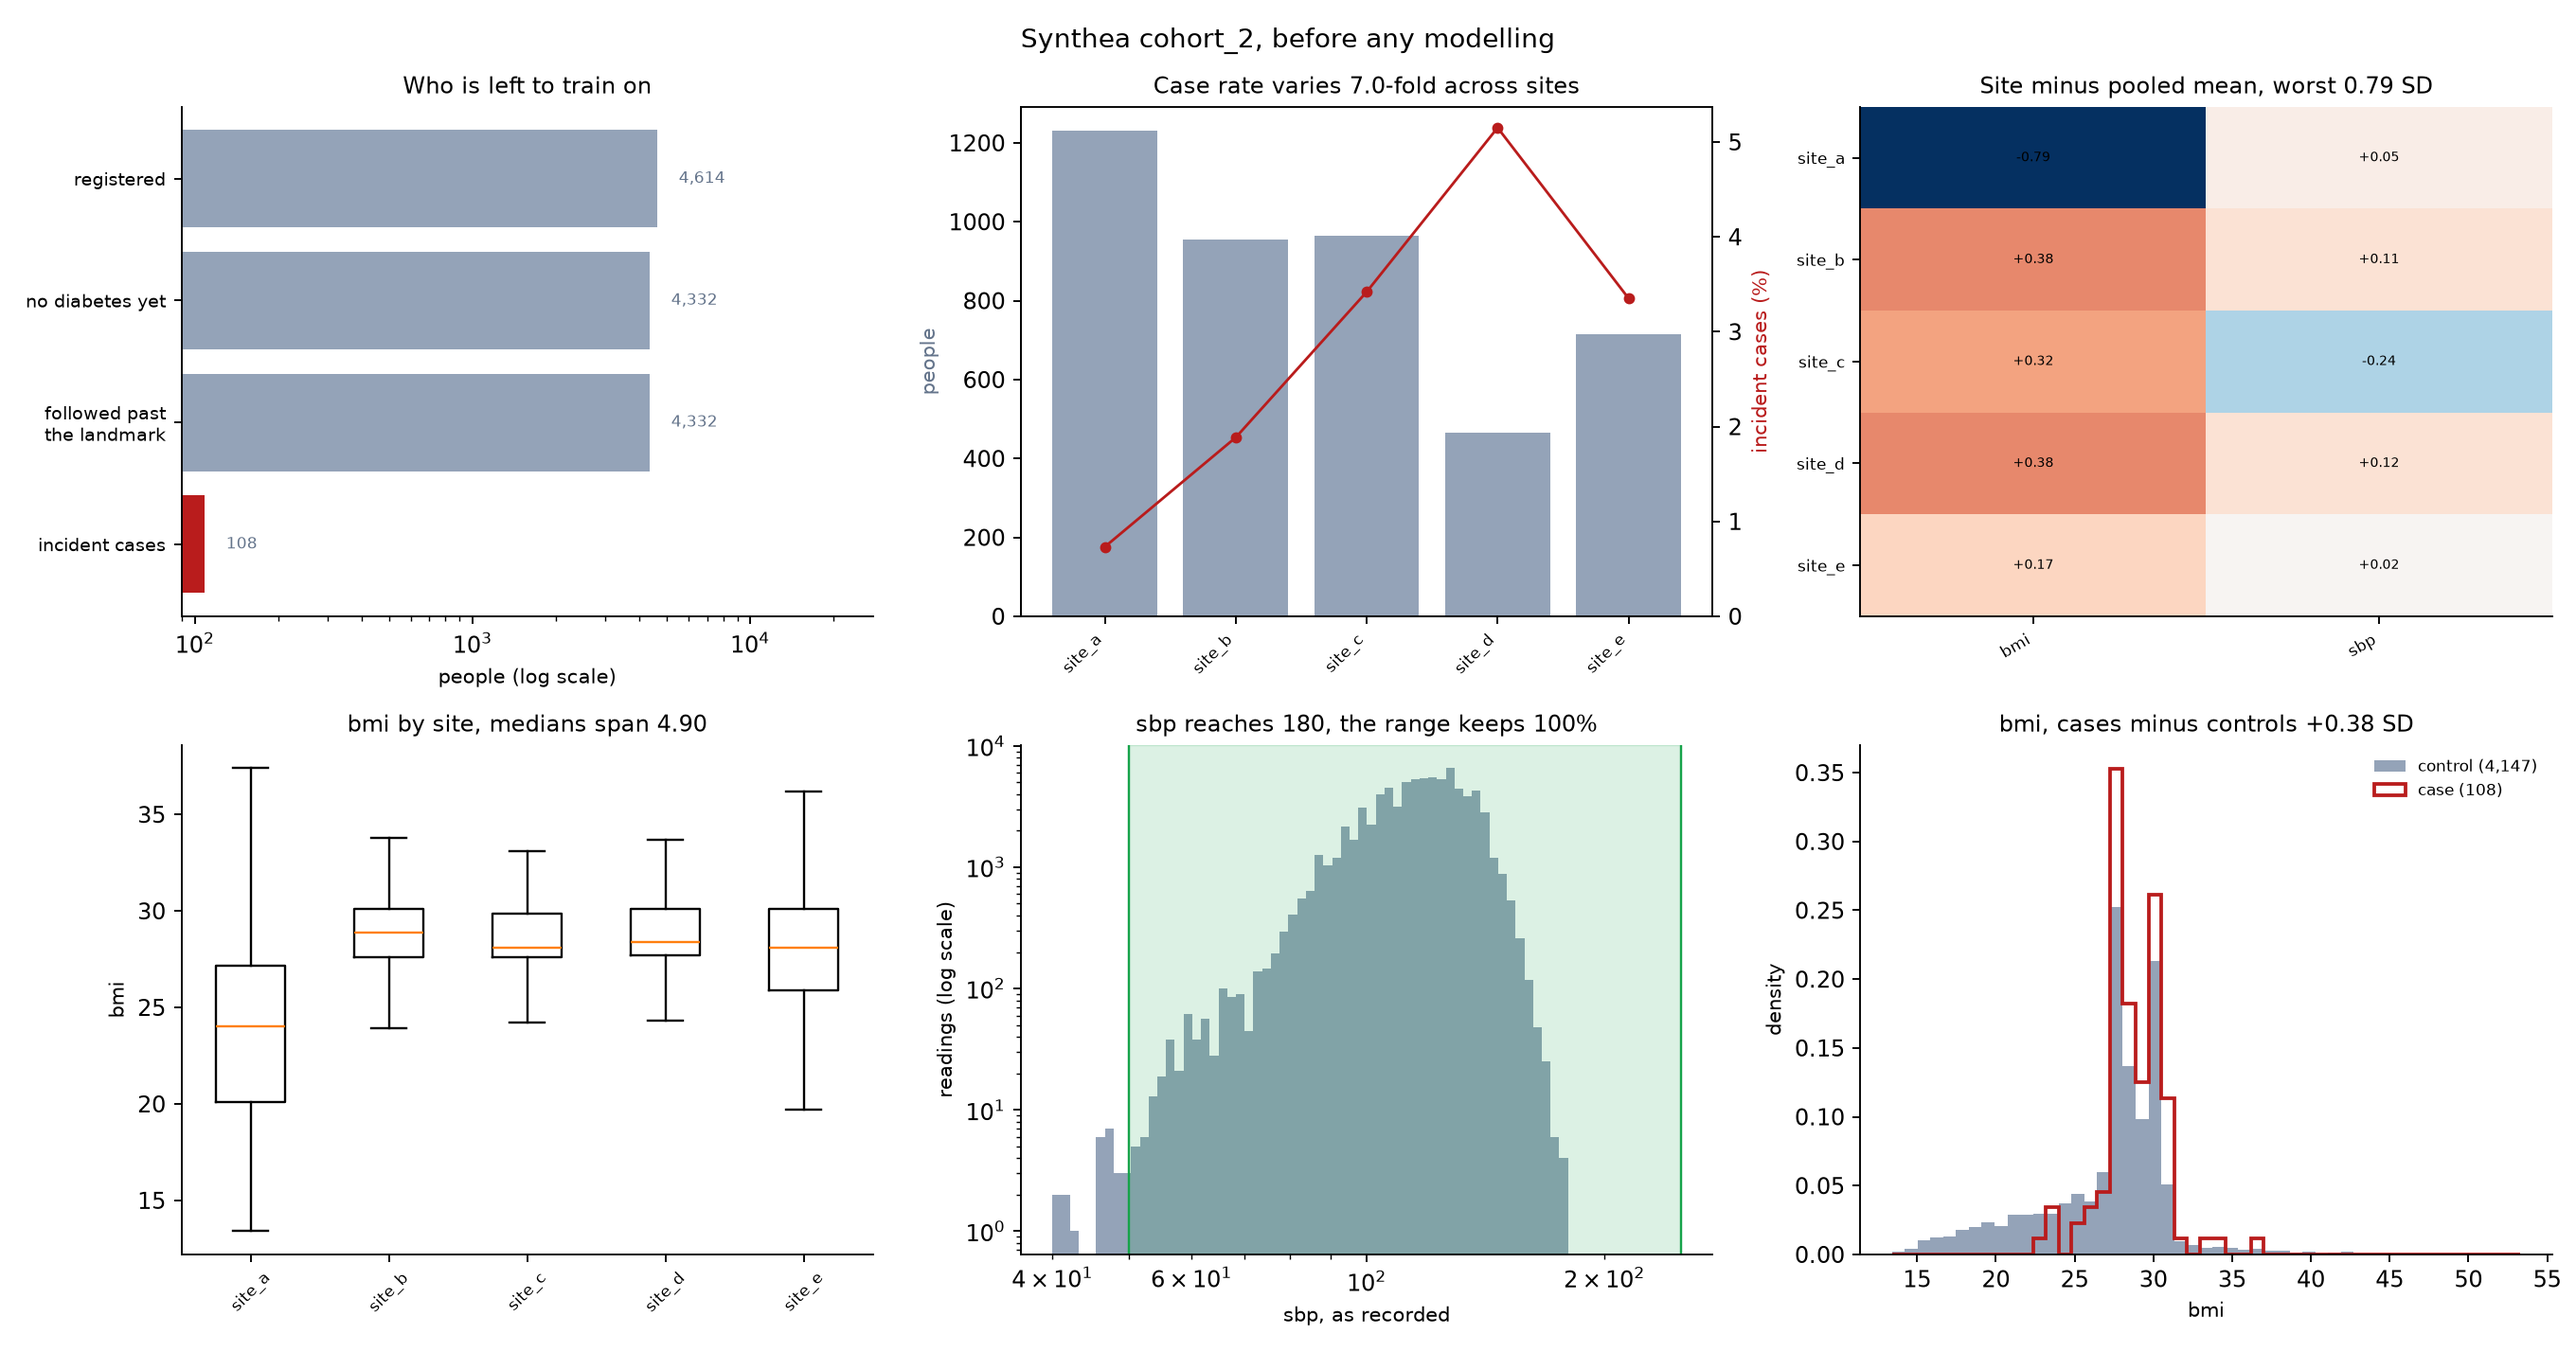
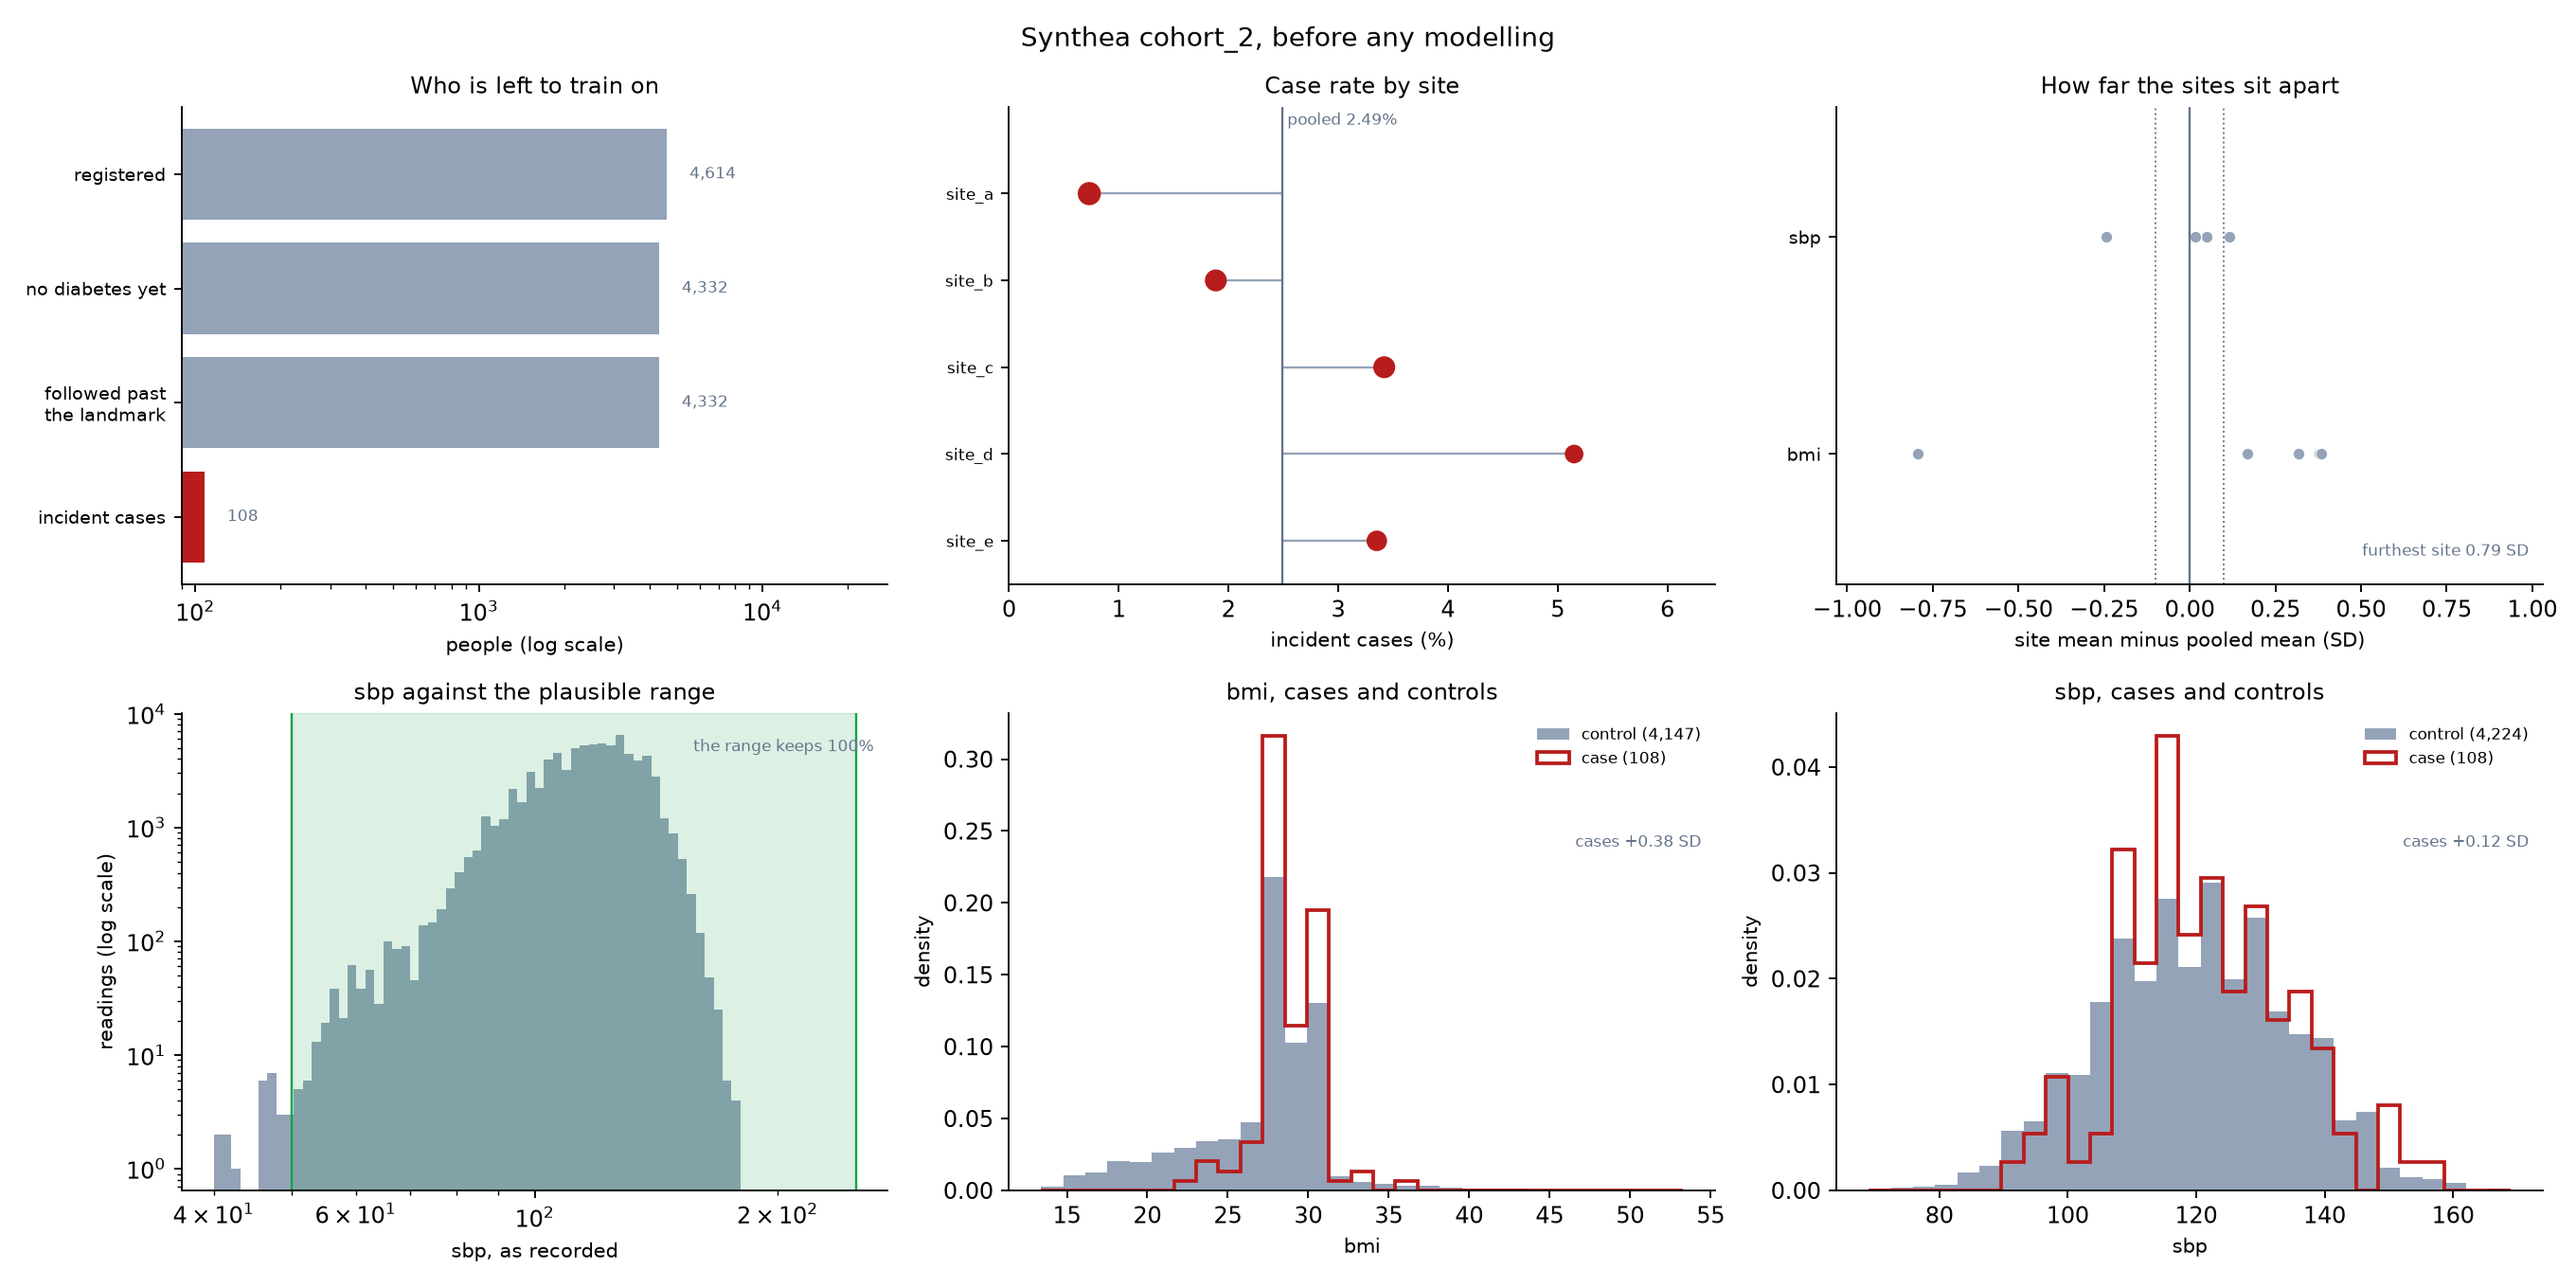
Replace the site bars and the heatmap with dot plots
Three panels all saying the sites are identical made the point three times and
none of them well. The bar chart and the heatmap are gone. Case rate is now a
lollipop against the pooled rate, and site divergence is a dot per site per
feature against a dotted band at 0.1 SD, so sites piling on zero reads as a
deliberate statement rather than a flat colour block.

Numbers move out of titles into the panels. Titles say what is plotted.

diff --git a/examples/ukb_diabetes/explore.py b/examples/ukb_diabetes/explore.py
@@ -134,65 +134,54 @@ def funnel(axis: plt.Axes, stages: dict[str, int]) -> None:
     axis.set_title("Who is left to train on", fontsize=10)
 
 
-def imbalance(axis: plt.Axes, edata: EHRData) -> None:
-    """Show how unevenly the people and the cases are spread over the sites.
+def case_rate(axis: plt.Axes, edata: EHRData) -> None:
+    """Plot each site's case rate against the pooled rate.
 
     Args:
         axis: Axes to draw on.
         edata: The stacked cohort.
     """
     grouped = edata.obs.groupby("site", observed=True)["label"]
-    sizes, rates = grouped.size(), grouped.mean() * 100
-    axis.bar(range(len(sizes)), sizes, color=SITE)
-    axis.set_ylabel("people", color=MUTED, fontsize=9)
-    axis.set_xticks(range(len(sizes)))
-    axis.set_xticklabels([name.replace("centre_", "") for name in sizes.index], rotation=45, ha="right", fontsize=7)
-    twin = axis.twinx()
-    twin.plot(range(len(rates)), rates, "o-", color=CASE, markersize=4, linewidth=1.2)
-    twin.set_ylabel("incident cases (%)", color=CASE, fontsize=9)
-    twin.set_ylim(bottom=0)
-    spread = rates.max() / max(rates.min(), 1e-9)
-    axis.set_title(f"Case rate varies {spread:.1f}-fold across sites", fontsize=10)
+    rates, sizes = grouped.mean() * 100, grouped.size()
+    pooled = float(edata.obs["label"].mean()) * 100
+    positions = np.arange(len(rates))
+    axis.hlines(positions, pooled, rates, color=SITE, linewidth=1)
+    axis.scatter(rates, positions, s=np.sqrt(sizes) * 2.5, color=CASE, zorder=3)
+    axis.axvline(pooled, color=MUTED, linewidth=1)
+    axis.text(pooled, -0.75, f" pooled {pooled:.2f}%", fontsize=7, color=MUTED, va="bottom")
+    axis.set_yticks(positions)
+    axis.set_yticklabels([name.replace("centre_", "") for name in rates.index], fontsize=7)
+    axis.set_ylim(len(rates) - 0.5, -1.0)
+    axis.set_xlabel("incident cases (%)", fontsize=9)
+    axis.set_xlim(0, max(rates.max() * 1.25, pooled * 2))
+    axis.set_title("Case rate by site", fontsize=10)
 
 
-def by_site(axis: plt.Axes, edata: EHRData, feature: str) -> None:
-    """Compare one feature's distribution between sites.
-
-    Args:
-        axis: Axes to draw on.
-        edata: The stacked cohort.
-        feature: Feature to compare.
-    """
-    values = edata[:, feature].X.ravel()
-    sites = edata.obs["site"].cat.categories
-    axis.boxplot(
-        [values[(edata.obs["site"] == site).to_numpy() & ~np.isnan(values)] for site in sites],
-        tick_labels=[site.replace("centre_", "") for site in sites],
-        showfliers=False,
-    )
-    axis.set_ylabel(feature, fontsize=9)
-    axis.tick_params(axis="x", rotation=45, labelsize=7)
-    medians = [np.nanmedian(values[(edata.obs["site"] == site).to_numpy()]) for site in sites]
-    axis.set_title(f"{feature} by site, medians span {max(medians) - min(medians):.2f}", fontsize=10)
-
-
-def drift(axis: plt.Axes, differences: pd.DataFrame) -> None:
-    """Show each site's distance from the pooled cohort, feature by feature.
+def divergence(axis: plt.Axes, differences: pd.DataFrame, *, band: float = 0.1) -> None:
+    """Plot how far each site's feature means sit from the pooled mean.
 
     Args:
         axis: Axes to draw on.
         differences: Sites by features, in pooled standard deviations.
+        band: Half-width of the region where sites are treated as indistinguishable.
     """
-    extreme = float(np.nanmax(np.abs(differences.to_numpy()))) or 1.0
-    axis.imshow(differences.to_numpy(), cmap=DIVERGING, aspect="auto", vmin=-extreme, vmax=extreme)
-    axis.set_xticks(range(differences.shape[1]))
-    axis.set_xticklabels(differences.columns, rotation=30, ha="right", fontsize=7)
-    axis.set_yticks(range(differences.shape[0]))
-    axis.set_yticklabels([name.replace("centre_", "") for name in differences.index], fontsize=7)
-    for row in range(differences.shape[0]):
-        for column in range(differences.shape[1]):
-            axis.text(column, row, f"{differences.to_numpy()[row, column]:+.2f}", ha="center", va="center", fontsize=6)
-    axis.set_title(f"Site minus pooled mean, worst {extreme:.2f} SD", fontsize=10)
+    features = list(differences.columns)
+    axis.axvline(0.0, color=MUTED, linewidth=1)
+    for edge in (-band, band):
+        axis.axvline(edge, color=MUTED, linewidth=0.8, linestyle=":")
+    for position, feature in enumerate(features):
+        values = differences[feature].to_numpy()
+        axis.scatter(values, np.full(values.size, position), s=28, color=SITE, edgecolor="white", linewidth=0.5)
+    reach = float(np.nanmax(np.abs(differences.to_numpy())))
+    axis.set_yticks(range(len(features)))
+    axis.set_yticklabels(features, fontsize=8)
+    axis.set_ylim(-0.6, len(features) - 0.4)
+    axis.set_xlim(-max(reach * 1.3, band * 2), max(reach * 1.3, band * 2))
+    axis.set_xlabel("site mean minus pooled mean (SD)", fontsize=9)
+    axis.text(
+        0.98, 0.06, f"furthest site {reach:.2f} SD", transform=axis.transAxes, ha="right", fontsize=7, color=MUTED
+    )
+    axis.set_title("How far the sites sit apart", fontsize=10)
 
 
 def plausibility(axis: plt.Axes, values: np.ndarray, feature: of.Feature) -> None:
@@ -214,7 +203,8 @@ def plausibility(axis: plt.Axes, values: np.ndarray, feature: of.Feature) -> Non
     axis.set_xlabel(f"{feature.name}, as recorded", fontsize=9)
     axis.set_ylabel("readings (log scale)", fontsize=9)
     kept = float(((positive >= low) & (positive <= high)).mean())
-    axis.set_title(f"{feature.name} reaches {positive.max():,.0f}, the range keeps {kept:.0%}", fontsize=10)
+    axis.text(0.98, 0.92, f"the range keeps {kept:.0%}", transform=axis.transAxes, ha="right", fontsize=7, color=MUTED)
+    axis.set_title(f"{feature.name} against the plausible range", fontsize=10)
 
 
 def separation(axis: plt.Axes, edata: EHRData, feature: str) -> None:
@@ -228,7 +218,7 @@ def separation(axis: plt.Axes, edata: EHRData, feature: str) -> None:
     values = edata[:, feature].X.ravel()
     case = (edata.obs["case"] == "case").to_numpy()
     observed = ~np.isnan(values)
-    bins = np.linspace(np.nanmin(values), np.nanmax(values), 50)
+    bins = np.linspace(np.nanmin(values), np.nanmax(values), 30)
     axis.hist(
         values[observed & ~case], bins=bins, density=True, color=SITE, label=f"control ({(observed & ~case).sum():,})"
     )
@@ -244,9 +234,9 @@ def separation(axis: plt.Axes, edata: EHRData, feature: str) -> None:
     axis.set_xlabel(feature, fontsize=9)
     axis.set_ylabel("density", fontsize=9)
     axis.legend(fontsize=7, frameon=False)
-    difference = float(np.nanmean(values[case]) - np.nanmean(values[~case]))
-    pooled = float(np.nanstd(values))
-    axis.set_title(f"{feature}, cases minus controls {difference / pooled:+.2f} SD", fontsize=10)
+    difference = float(np.nanmean(values[case]) - np.nanmean(values[~case])) / float(np.nanstd(values))
+    axis.text(0.98, 0.72, f"cases {difference:+.2f} SD", transform=axis.transAxes, ha="right", fontsize=7, color=MUTED)
+    axis.set_title(f"{feature}, cases and controls", fontsize=10)
 
 
 def main() -> None:
@@ -265,13 +255,13 @@ def main() -> None:
     print(differences.round(3).to_string())
 
     first, second = spec.features[0], spec.features[1]
-    figure, axes = plt.subplots(2, 3, figsize=(16, 8.4))
+    figure, axes = plt.subplots(2, 3, figsize=(16, 8.0))
     funnel(axes[0, 0], stages)
-    imbalance(axes[0, 1], edata)
-    drift(axes[0, 2], differences)
-    by_site(axes[1, 0], edata, first.name)
-    plausibility(axes[1, 1], raw_values(paths, second), second)
-    separation(axes[1, 2], edata, first.name)
+    case_rate(axes[0, 1], edata)
+    divergence(axes[0, 2], differences)
+    plausibility(axes[1, 0], raw_values(paths, second), second)
+    separation(axes[1, 1], edata, first.name)
+    separation(axes[1, 2], edata, second.name)
     for axis in axes.ravel():
         axis.spines[["top", "right"]].set_visible(False)
     figure.suptitle(args.title, fontsize=12)
